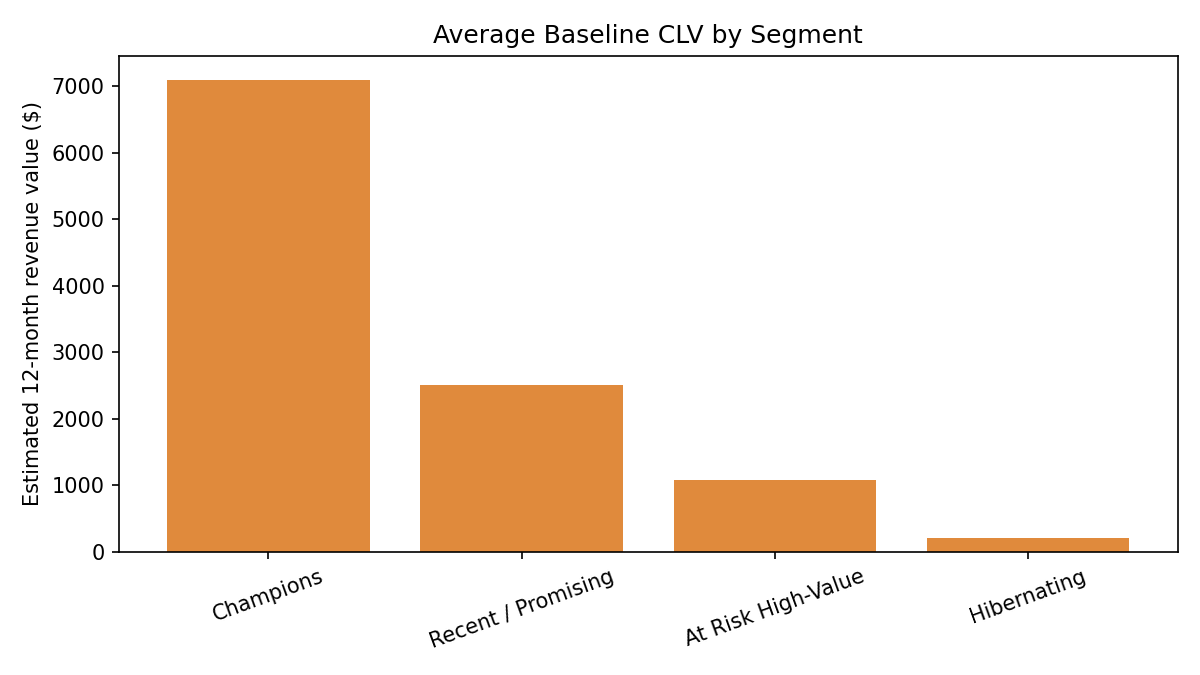
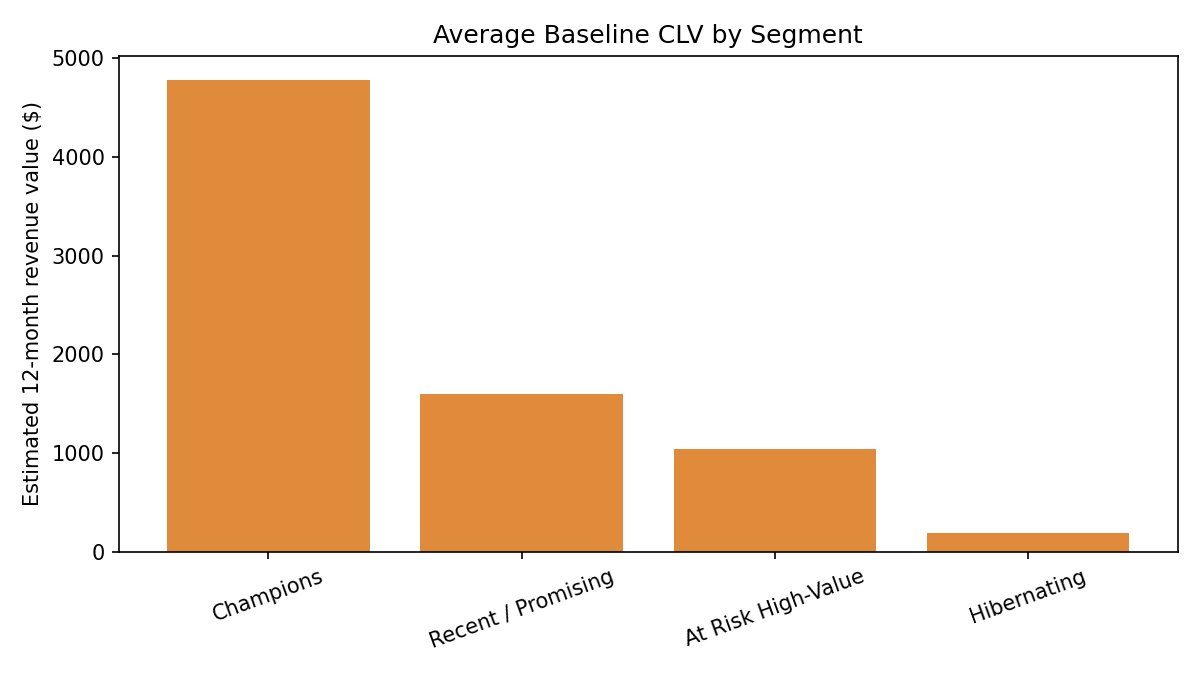
Stabilize baseline CLV estimate

diff --git a/src/segmentation_clv.py b/src/segmentation_clv.py
@@ -32,6 +32,8 @@ DB_PATH = ROOT / "data" / "smartcart.db"
 OUT_DIR = ROOT / "reports" / "figures"
 K_RANGE = range(4, 9)
 RANDOM_STATE = 42
+MIN_CLV_WINDOW_DAYS = 90
+ORDER_RATE_CAP_QUANTILE = 0.95
 
 BLUE = "#234A70"
 ACCENT = "#E08A3C"
@@ -170,9 +172,13 @@ def estimate_clv(rfm: pd.DataFrame, tx: pd.DataFrame) -> pd.DataFrame:
     )
     clv = rfm.merge(life, on="customer_id", how="left")
     clv["avg_order_value"] = clv["monetary"] / clv["frequency"].clip(lower=1)
-    clv["observed_days"] = (latest_date - clv["first_purchase"]).dt.days.clip(lower=30)
+    clv["observed_days"] = (
+        (latest_date - clv["first_purchase"]).dt.days.clip(lower=MIN_CLV_WINDOW_DAYS)
+    )
     clv["observed_years"] = clv["observed_days"] / 365.25
-    clv["annual_order_rate"] = clv["frequency"] / clv["observed_years"]
+    clv["annual_order_rate_raw"] = clv["frequency"] / clv["observed_years"]
+    rate_cap = clv["annual_order_rate_raw"].quantile(ORDER_RATE_CAP_QUANTILE)
+    clv["annual_order_rate"] = clv["annual_order_rate_raw"].clip(upper=rate_cap)
     clv["recency_weight"] = np.exp(-clv["recency_days"] / 365.25)
     clv["clv_estimate"] = (
         clv["avg_order_value"] * clv["annual_order_rate"] * clv["recency_weight"]
@@ -181,7 +187,9 @@ def estimate_clv(rfm: pd.DataFrame, tx: pd.DataFrame) -> pd.DataFrame:
         [
             "customer_id",
             "avg_order_value",
+            "annual_order_rate_raw",
             "annual_order_rate",
+            "observed_days",
             "recency_weight",
             "frequency",
             "monetary",